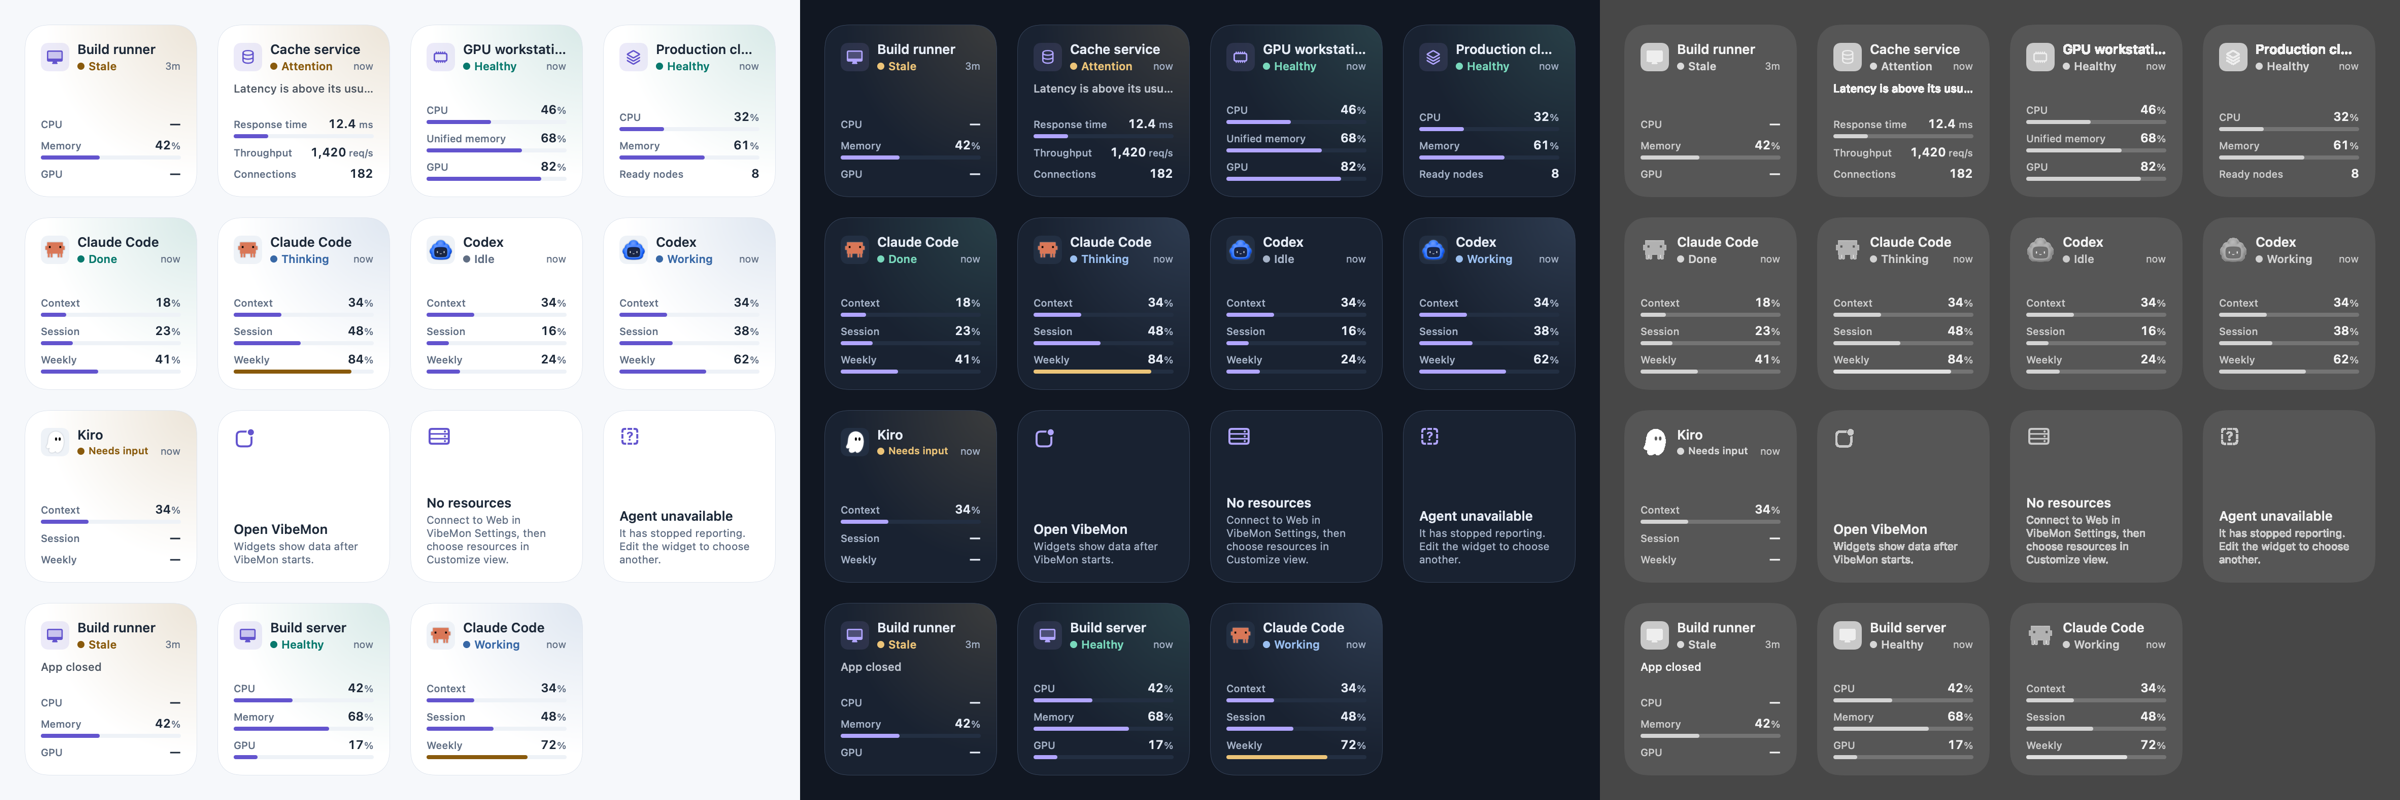
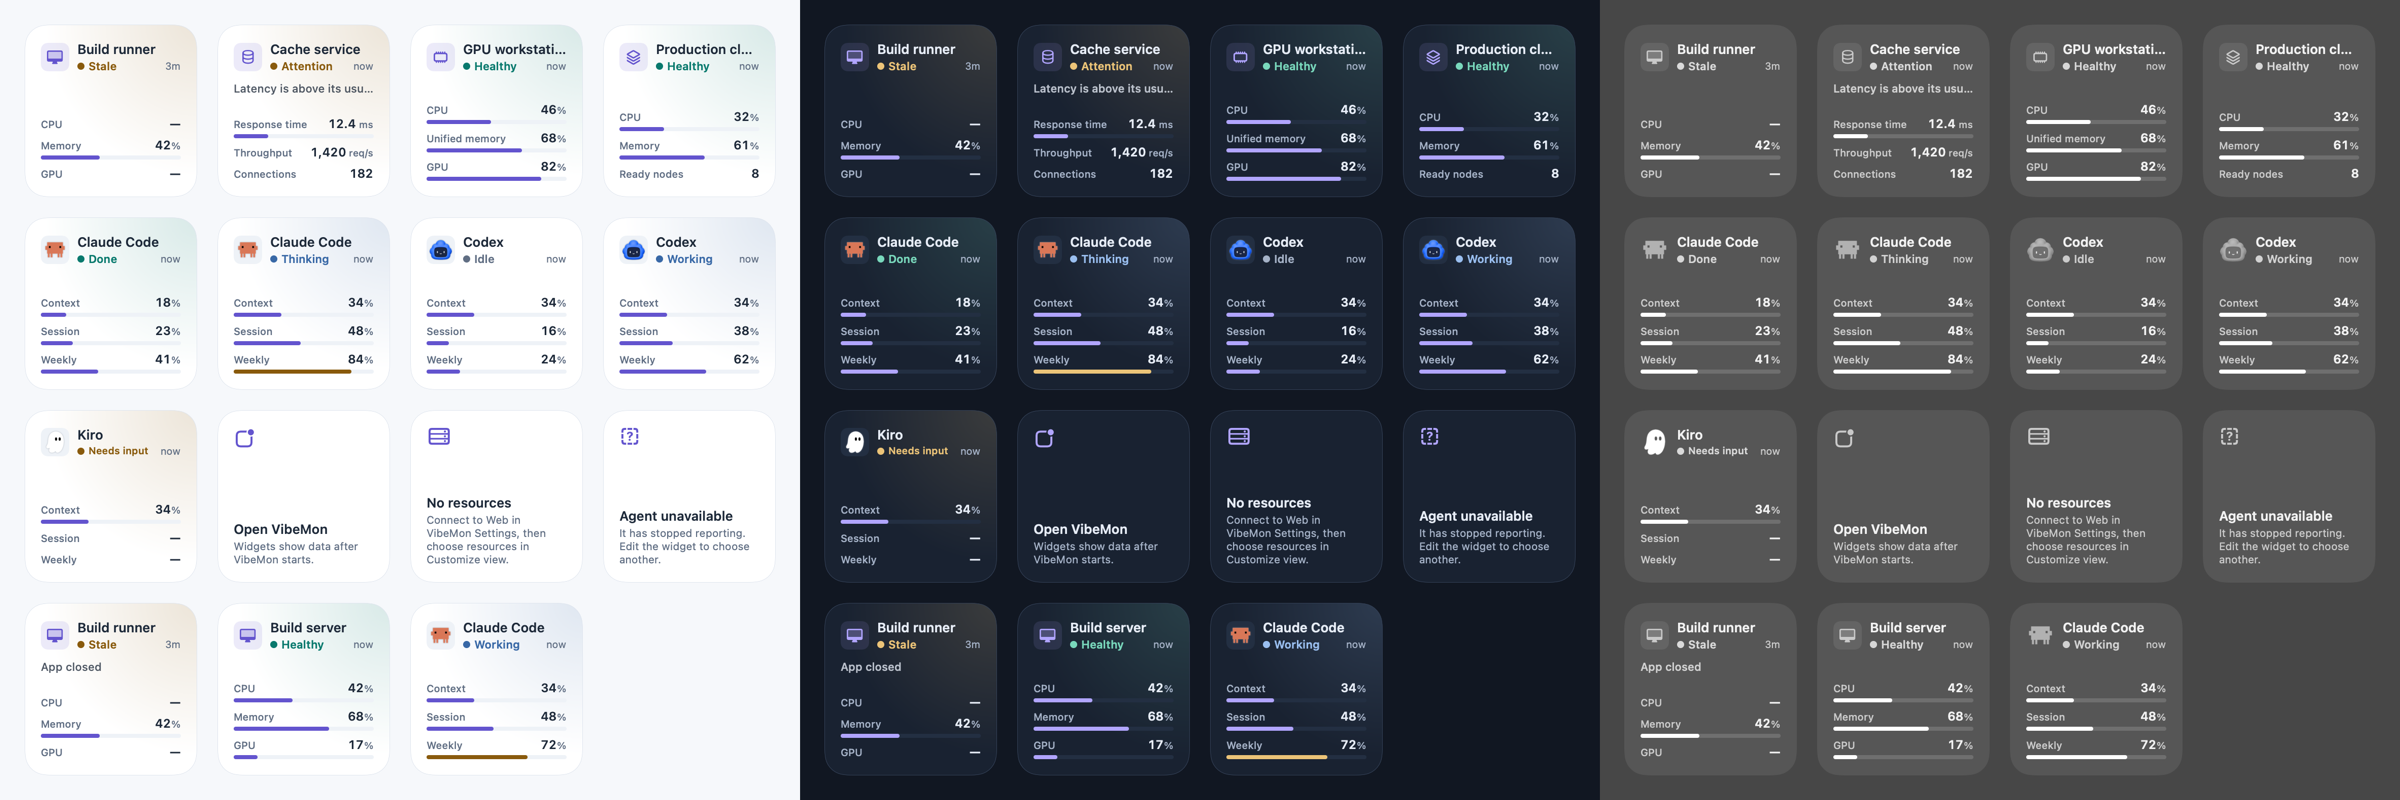
fix: draw widget gauges white on a faint track when the desktop is not focused

diff --git a/native/macos/Shared/WidgetViews.swift b/native/macos/Shared/WidgetViews.swift
@@ -196,16 +196,20 @@ private struct MetricRow: View {
     }
 }
 
+/// A gauge in the metric color on a subtle track. In the vibrant mode, macOS
+/// keeps only brightness, so the fill is white on a faint track there.
 private struct GaugeBar: View {
     let fraction: Double
     let color: Color
+    @Environment(\.widgetRenderingMode) private var renderingMode
 
     var body: some View {
+        let fullColor = renderingMode == .fullColor
         GeometryReader { geometry in
             ZStack(alignment: .leading) {
-                Capsule().fill(Palette.subtle)
+                Capsule().fill(fullColor ? Palette.subtle : Color.white.opacity(0.15))
                 Capsule()
-                    .fill(color)
+                    .fill(fullColor ? color : Color.white)
                     .frame(width: fraction > 0 ? max(4, geometry.size.width * min(fraction, 1)) : 0)
                     .widgetAccentable()
             }

diff --git a/native/macos/Preview/main.swift b/native/macos/Preview/main.swift
@@ -48,6 +48,9 @@ struct Tile: View {
                 .environment(\.widgetRenderingMode, .vibrant)
                 .padding(16)
                 .frame(width: 170, height: 170)
+                // Flatten onto black first: the filter ignores the alpha of each layer.
+                .background(Color.black)
+                .compositingGroup()
                 .luminanceToAlpha()
                 .colorInvert()
                 .background(Color.white.opacity(0.08), in: shape)

diff --git a/docs/widgets.md b/docs/widgets.md
@@ -26,7 +26,7 @@ A new widget shows the first item until you choose one. Click a widget to open i
 - **Detail line**: the collector's message for a resource, or **App closed** after VibeMon quits. A coding agent has no detail line.
 - **Metrics**: the first three metrics selected in **Customize view** for a resource. A coding agent shows **Context**, **Session**, and **Weekly**. A plan usage bar uses the warning color from 70% and the danger color from 90%. `—` means no measurement was reported.
 - **App closed**: VibeMon has quit. The values are the last known ones and keep aging.
-- **Desktop not focused**: macOS draws the widget in one color. The character is then drawn without its tile, so its outline stays visible.
+- **Desktop not focused**: macOS draws the widget in one color. The character is then drawn without its tile, so its outline stays visible, and gauges are white on a faint track.
 
 A coding agent combines all projects of one provider account. The state of the project that needs attention is shown first, for example a project waiting for input. Local hook reports replace the cloud copy of the same project. When a hook report has no usage, the widget uses the plan usage on this Mac.
 
